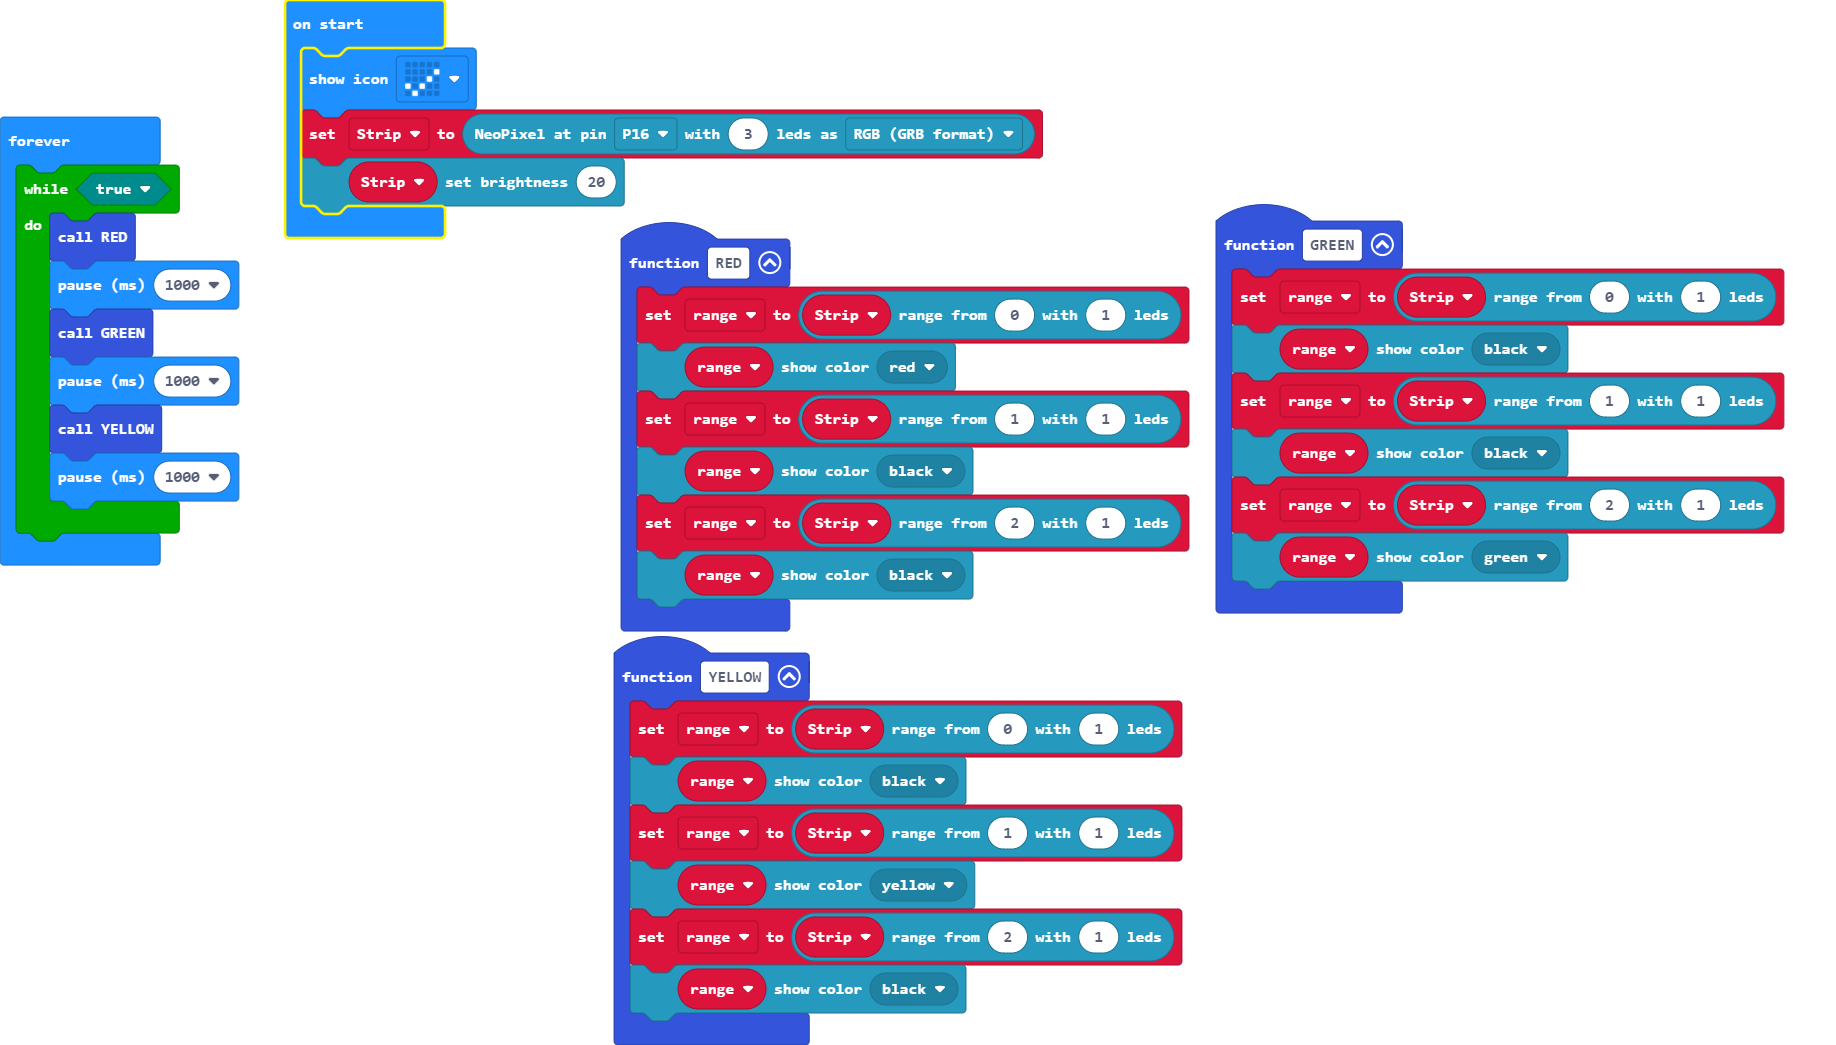
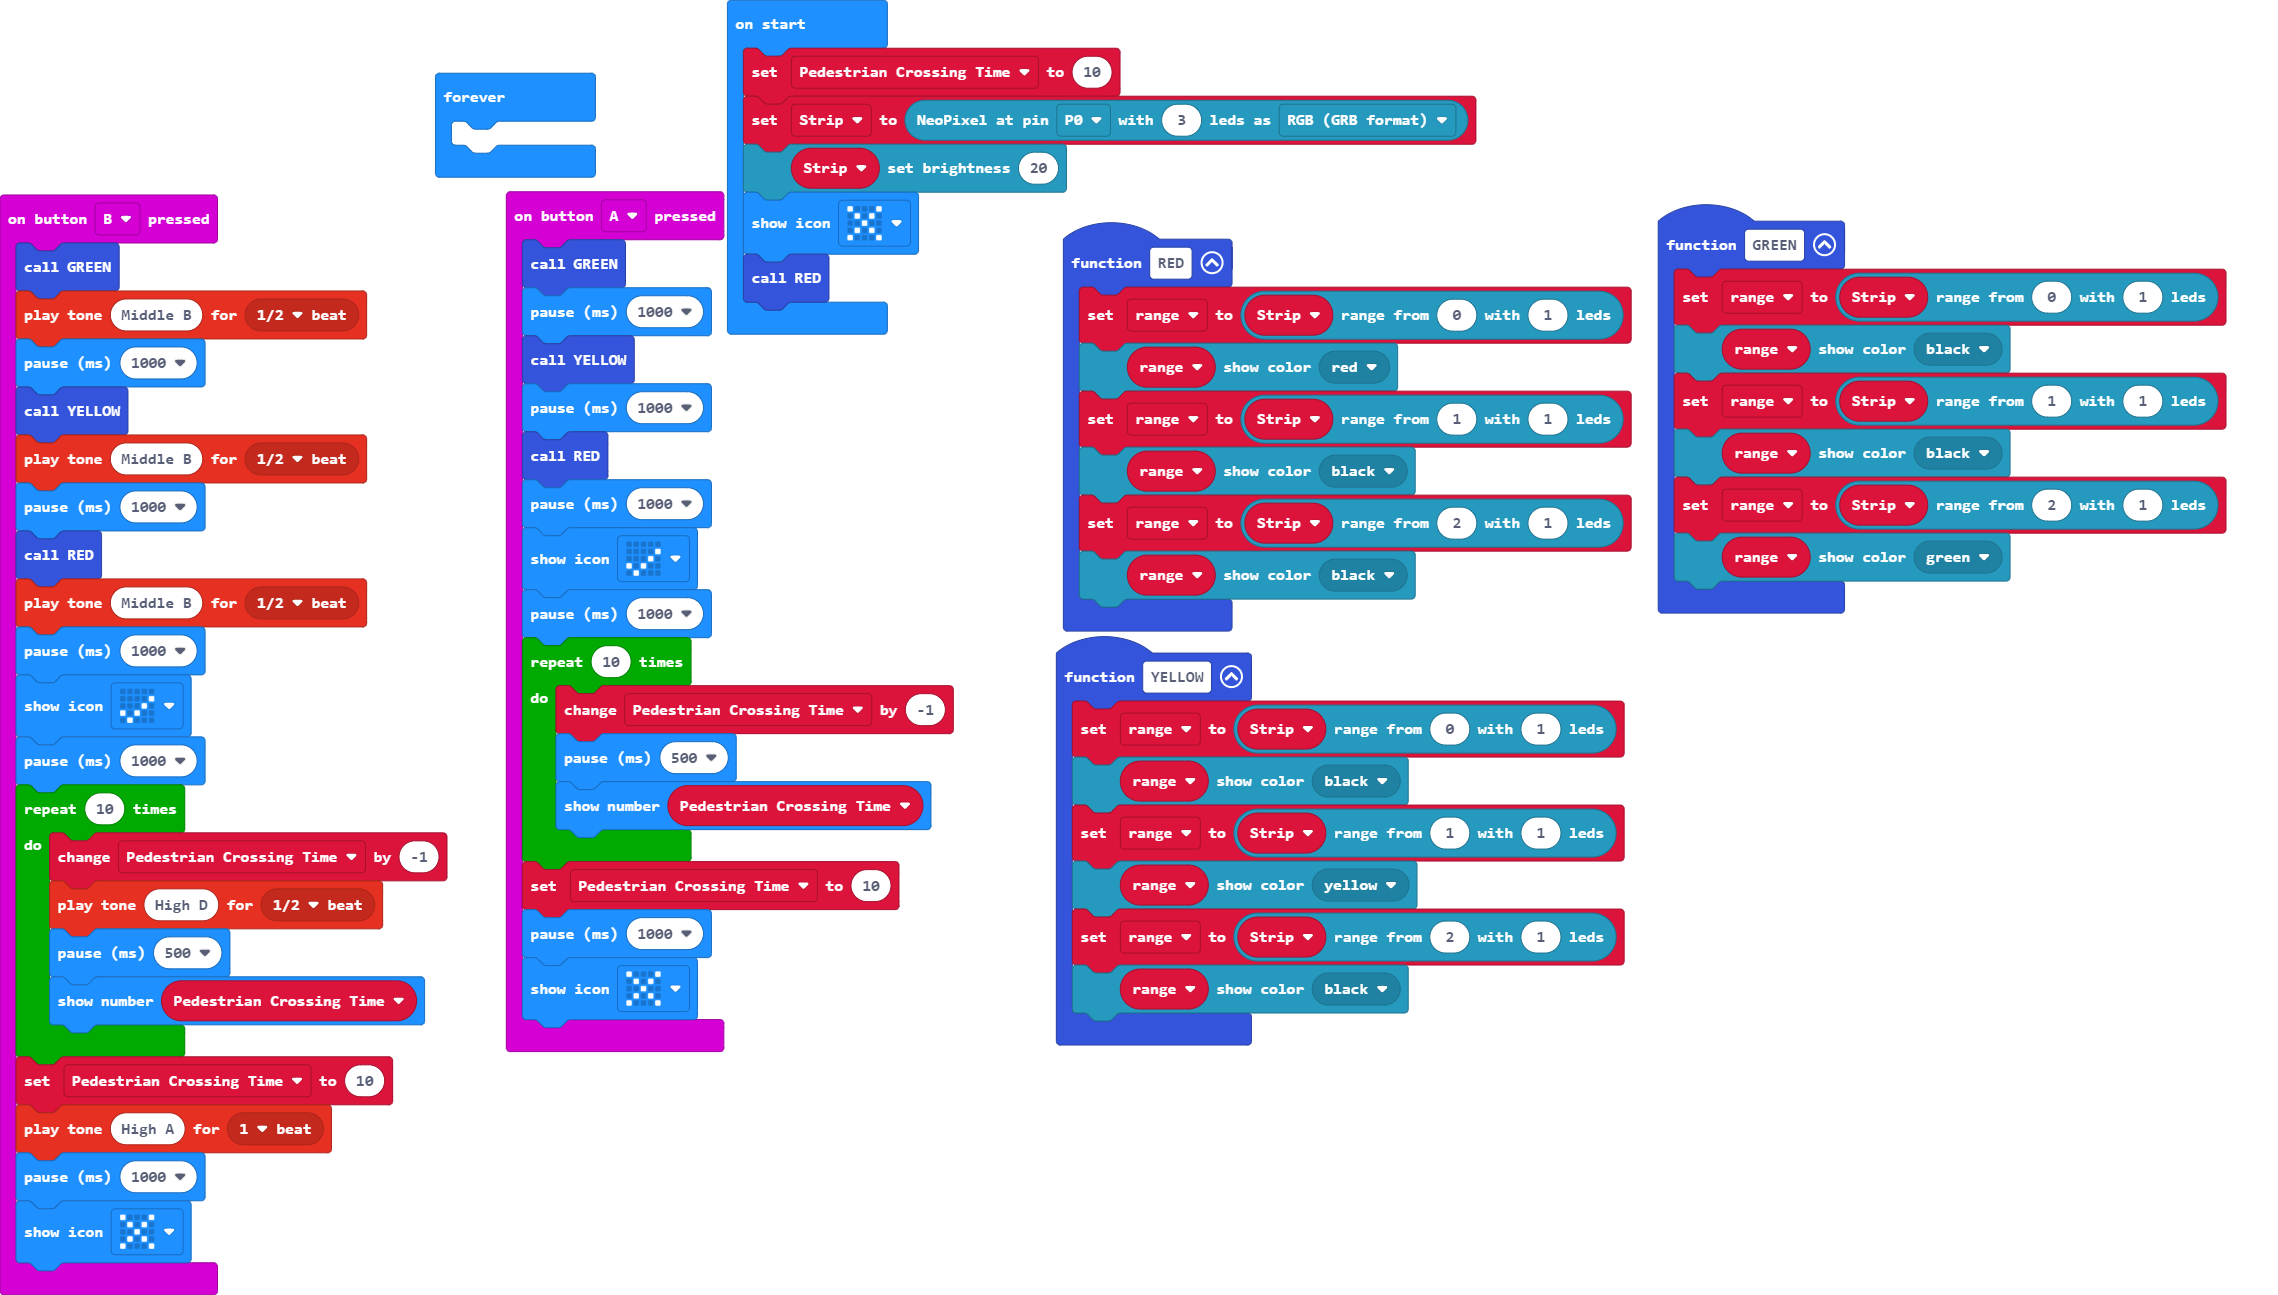
Update pxt.json, main.blocks, main.ts

diff --git a/main.ts b/main.ts
@@ -1,3 +1,21 @@
+input.onButtonPressed(Button.A, function () {
+    GREEN()
+    basic.pause(1000)
+    YELLOW()
+    basic.pause(1000)
+    RED()
+    basic.pause(1000)
+    basic.showIcon(IconNames.Yes)
+    basic.pause(1000)
+    for (let index = 0; index < 10; index++) {
+        Pedestrian_Crossing_Time += -1
+        basic.pause(500)
+        basic.showNumber(Pedestrian_Crossing_Time)
+    }
+    Pedestrian_Crossing_Time = 10
+    basic.pause(1000)
+    basic.showIcon(IconNames.No)
+})
 function RED () {
     range = Strip.range(0, 1)
     range.showColor(neopixel.colors(NeoPixelColors.Red))
@@ -14,6 +32,29 @@ function GREEN () {
     range = Strip.range(2, 1)
     range.showColor(neopixel.colors(NeoPixelColors.Green))
 }
+input.onButtonPressed(Button.B, function () {
+    GREEN()
+    music.playTone(494, music.beat(BeatFraction.Half))
+    basic.pause(1000)
+    YELLOW()
+    music.playTone(494, music.beat(BeatFraction.Half))
+    basic.pause(1000)
+    RED()
+    music.playTone(494, music.beat(BeatFraction.Half))
+    basic.pause(1000)
+    basic.showIcon(IconNames.Yes)
+    basic.pause(1000)
+    for (let index = 0; index < 10; index++) {
+        Pedestrian_Crossing_Time += -1
+        music.playTone(587, music.beat(BeatFraction.Half))
+        basic.pause(500)
+        basic.showNumber(Pedestrian_Crossing_Time)
+    }
+    Pedestrian_Crossing_Time = 10
+    music.playTone(880, music.beat(BeatFraction.Whole))
+    basic.pause(1000)
+    basic.showIcon(IconNames.No)
+})
 function YELLOW () {
     range = Strip.range(0, 1)
     range.showColor(neopixel.colors(NeoPixelColors.Black))
@@ -24,16 +65,12 @@ function YELLOW () {
 }
 let range: neopixel.Strip = null
 let Strip: neopixel.Strip = null
-basic.showIcon(IconNames.Yes)
-Strip = neopixel.create(DigitalPin.P16, 3, NeoPixelMode.RGB)
+let Pedestrian_Crossing_Time = 0
+Pedestrian_Crossing_Time = 10
+Strip = neopixel.create(DigitalPin.P0, 3, NeoPixelMode.RGB)
 Strip.setBrightness(20)
+basic.showIcon(IconNames.No)
+RED()
 basic.forever(function () {
-    while (true) {
-        RED()
-        basic.pause(1000)
-        GREEN()
-        basic.pause(1000)
-        YELLOW()
-        basic.pause(1000)
-    }
+	
 })
